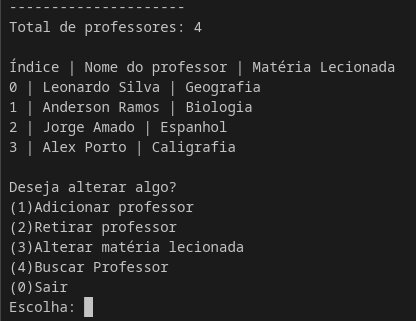
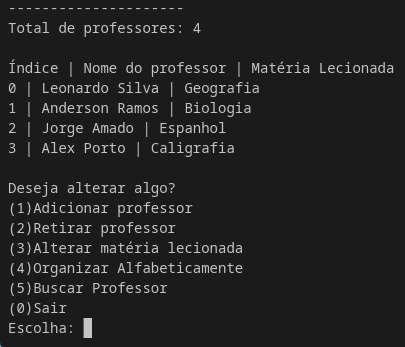
Terminando o projeto, adicionando a organização por ordem alfabética

diff --git a/src/Ordem_alfabetica.c b/src/Ordem_alfabetica.c
@@ -1,0 +1,71 @@
+#include "Ordem_alfabetica.h"
+
+int comparar_elementos(const void *a, const void *b){
+    char *const *str1 = a;
+    char *const *str2 = b;
+    return strcmp(*str1, *str2);
+}
+
+ALUN ordenar_alfabeticamente_alunos(ALUN info_alunos) {
+    ALUN copia;
+    copia.quantidade = info_alunos.quantidade;
+
+    alocar_memoria_alunos(&copia);
+
+    for (int i=0; i<copia.quantidade; i++) {
+        strcpy(copia.nome[i], info_alunos.nome[i]);
+    }
+
+    qsort(copia.nome, copia.quantidade, sizeof(char*), comparar_elementos);
+
+    int usado[copia.quantidade];
+
+    for (int i=0; i<copia.quantidade; i++)
+        usado[i] = 0;
+
+    for (int i=0; i<info_alunos.quantidade; i++) {
+        for (int j=0; j<copia.quantidade; j++) {
+
+            if (strcmp(copia.nome[j], info_alunos.nome[i]) == 0 && !usado[j]) {
+                copia.turma[j] = info_alunos.turma[i];
+                usado[j] = 1;
+                break;
+            }
+
+        }
+    }
+
+    return copia;
+}
+
+PROF ordenar_alfabeticamente_professores(PROF info_professores) {
+    PROF copia;
+    copia.quantidade = info_professores.quantidade;
+
+    alocar_memoria_professores(&copia);
+
+    for (int i = 0; i < copia.quantidade; i++) {
+        strcpy(copia.nome[i], info_professores.nome[i]);
+    }
+
+    qsort(copia.nome, copia.quantidade, sizeof(char*), comparar_elementos);
+
+    int usado[copia.quantidade];
+
+    for (int i=0; i<copia.quantidade; i++)
+        usado[i] = 0;
+
+    for (int i=0; i<info_professores.quantidade; i++) {
+        for (int j=0; j<copia.quantidade; j++) {
+
+            if (strcmp(copia.nome[j], info_professores.nome[i]) == 0 && !usado[j]) {
+                strcpy(copia.materia[j], info_professores.materia[i]);
+                usado[j] = 1;
+                break;
+            }
+
+        }
+    }
+
+    return copia;
+}

diff --git a/src/Alteracao_de_dados.c b/src/Alteracao_de_dados.c
@@ -67,7 +67,7 @@ void alterar_turma(ALUN* info_alunos) {
 unsigned short alterar_alunos(ALUN* info_alunos, int* erro) {
     unsigned short voltar = 0;
     printf("Deseja alterar algo?\n");
-    printf("(1)Adicionar aluno\n(2)Retirar aluno\n(3)Alterar turma de um aluno\n(4)Buscar Aluno\n(0)Sair\n");
+    printf("(1)Adicionar aluno\n(2)Retirar aluno\n(3)Alterar turma de um aluno\n(4)Organizar Alfabeticamente\n(5)Buscar Aluno\n(0)Sair\n");
     printf("Escolha: ");
 
     unsigned short escolha = 0;
@@ -91,6 +91,10 @@ unsigned short alterar_alunos(ALUN* info_alunos, int* erro) {
         break;
 
     case 4:
+        *info_alunos = ordenar_alfabeticamente_alunos(*info_alunos);
+        break;
+
+    case 5:
         bsucar_aluno(*info_alunos);
         break;
 
@@ -171,7 +175,7 @@ unsigned short alterar_professores(PROF* info_professores, int* erro) {
     unsigned short voltar = 0;
 
     printf("Deseja alterar algo?\n");
-    printf("(1)Adicionar professor\n(2)Retirar professor\n(3)Alterar matéria lecionada\n(4)Buscar Professor\n(0)Sair\n");
+    printf("(1)Adicionar professor\n(2)Retirar professor\n(3)Alterar matéria lecionada\n(4)Organizar Alfabeticamente\n(5)Buscar Professor\n(0)Sair\n");
     printf("Escolha: ");
 
     unsigned short escolha = 0;
@@ -197,6 +201,10 @@ unsigned short alterar_professores(PROF* info_professores, int* erro) {
         break;
 
     case 4:
+        *info_professores = ordenar_alfabeticamente_professores(*info_professores);
+        break;
+
+    case 5:
         buscar_professor(*info_professores);
         break;
 

diff --git a/include/Ordem_alfabetica.h b/include/Ordem_alfabetica.h
@@ -1,0 +1,12 @@
+#ifndef _ORDEM_ALFABETICA_H_
+#define _ORDEM_ALFABETICA_H_
+
+#include <stdlib.h>
+#include <string.h>
+#include "Structs.h"
+#include "Gerenciamento_de_structs.h"
+
+int comparar_elementos(const void *a, const void *b);
+ALUN ordenar_alfabeticamente_alunos(ALUN info_alunos);
+PROF ordenar_alfabeticamente_professores(PROF info_professores);
+#endif

diff --git a/include/Alteracao_de_dados.h b/include/Alteracao_de_dados.h
@@ -8,6 +8,7 @@
 #include "Structs.h"
 #include "Tratamento_de_erros.h"
 #include "Busca_nomes.h"
+#include "Ordem_alfabetica.h"
 
 int adicionar_aluno(ALUN* info_alunos);
 void retirar_aluno(ALUN* info_alunos);

diff --git a/README.md b/README.md
@@ -19,7 +19,7 @@ A arquitetura do projeto é a seguinte:
 
 ```arquitetura
 Sistema de cadastro
-┣ data
+ ┣ data
  ┃ ┣ alunos.txt
  ┃ ┣ alunos_bckp.txt
  ┃ ┣ professores.txt
@@ -34,6 +34,7 @@ Sistema de cadastro
  ┃ ┣ Funcoes_interface.h
  ┃ ┣ Gerenciamento_de_structs.h
  ┃ ┣ Leitura_de_arquivos.h
+ ┃ ┣ Ordem_alfabetica.h
  ┃ ┣ Salvamento_de_arquivo.h
  ┃ ┣ Sistema_de_cadastro.h
  ┃ ┣ Structs.h
@@ -45,6 +46,7 @@ Sistema de cadastro
  ┃ ┣ Funcoes_interface.c
  ┃ ┣ Gerenciamento_de_structs.c
  ┃ ┣ Leitura_de_arquivos.c
+ ┃ ┣ Ordem_alfabetica.c
  ┃ ┣ Salvamento_de_arquivo.c
  ┃ ┣ Sistema_de_cadastro.c
  ┃ ┣ Tratamento_de_entradas.c
@@ -114,25 +116,18 @@ O sistema atualmente permite:
 - Adicionar alunos
 - Remover alunos
 - Alterar turma de alunos
+- Organizar alfabeticamente
 - Buscar por aluno
 
 - Visualizar professores
 - Adicionar professores
 - Remover professores
 - Alterar matéria lecionada
+- Organizar alfabeticamente
 - Buscar por professor
 
 - Salvamento manual em arquivos .txt
 - Criação de backups automáticos antes de cada atualização em .txt
-
----
-
-# 🔮 Planos futuros
-
-Algumas melhorias planejadas para o projeto:
-
-- Ordenação automática (ordem alfabética)
-- Interface de menu mais robusta
 
 ---
 
